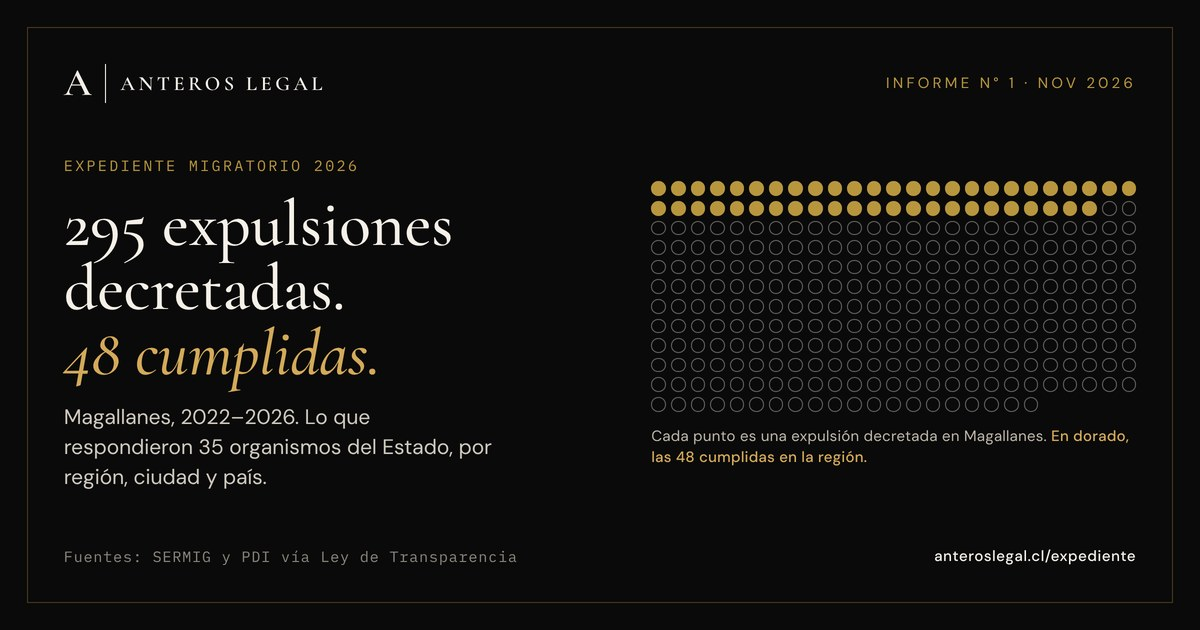
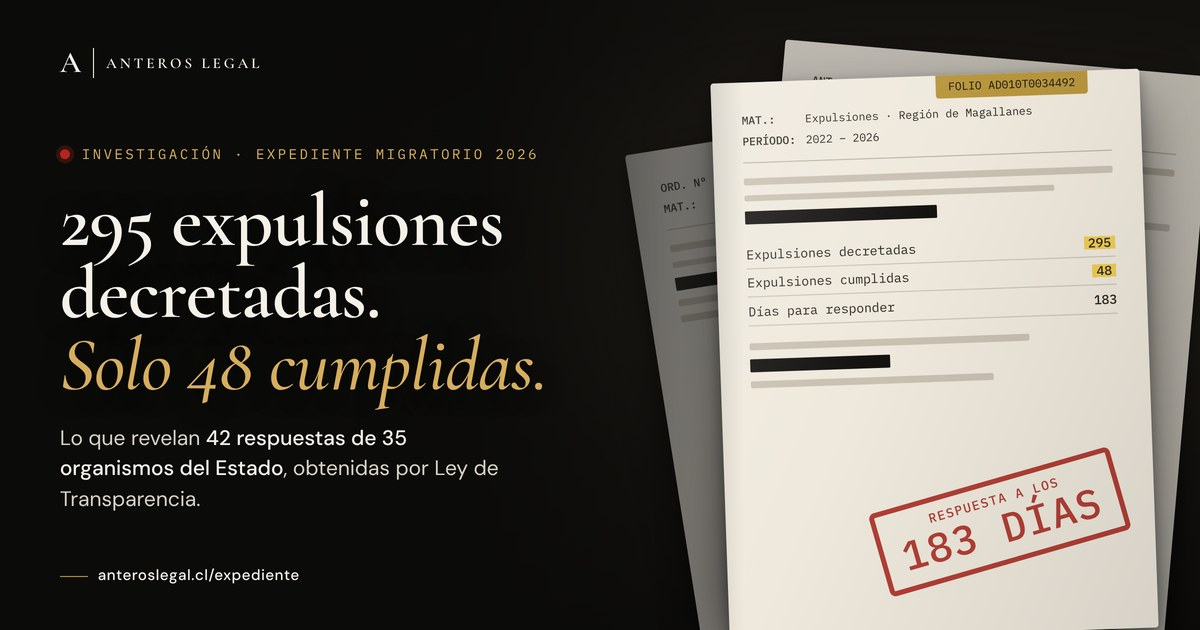
Expediente: nueva portada estilo investigación
Claude-Session: https://claude.ai/code/session_011Rv6M8yuQ234bwA6uCAB1P

diff --git a/index.html b/index.html
@@ -1356,7 +1356,7 @@ src="https://www.facebook.com/tr?id=2425088324585849&ev=PageView&noscript=1"
     <!-- Expediente Migratorio 2026 (GRATIS, acceso libre) -->
     <div class="producto-card">
       <div class="producto-img-wrap">
-        <img src="images/expediente-2026.jpg" alt="Expediente Migratorio 2026: 295 expulsiones decretadas en Magallanes, 48 cumplidas" onerror="this.parentElement.style.background='#1a1a1a'">
+        <img src="images/expediente-2026.jpg" alt="Expediente Migratorio 2026: 295 expulsiones decretadas en Magallanes, solo 48 cumplidas" onerror="this.parentElement.style.background='#1a1a1a'">
         <span class="producto-badge producto-badge--gold">Nuevo</span>
       </div>
       <div class="producto-body">
